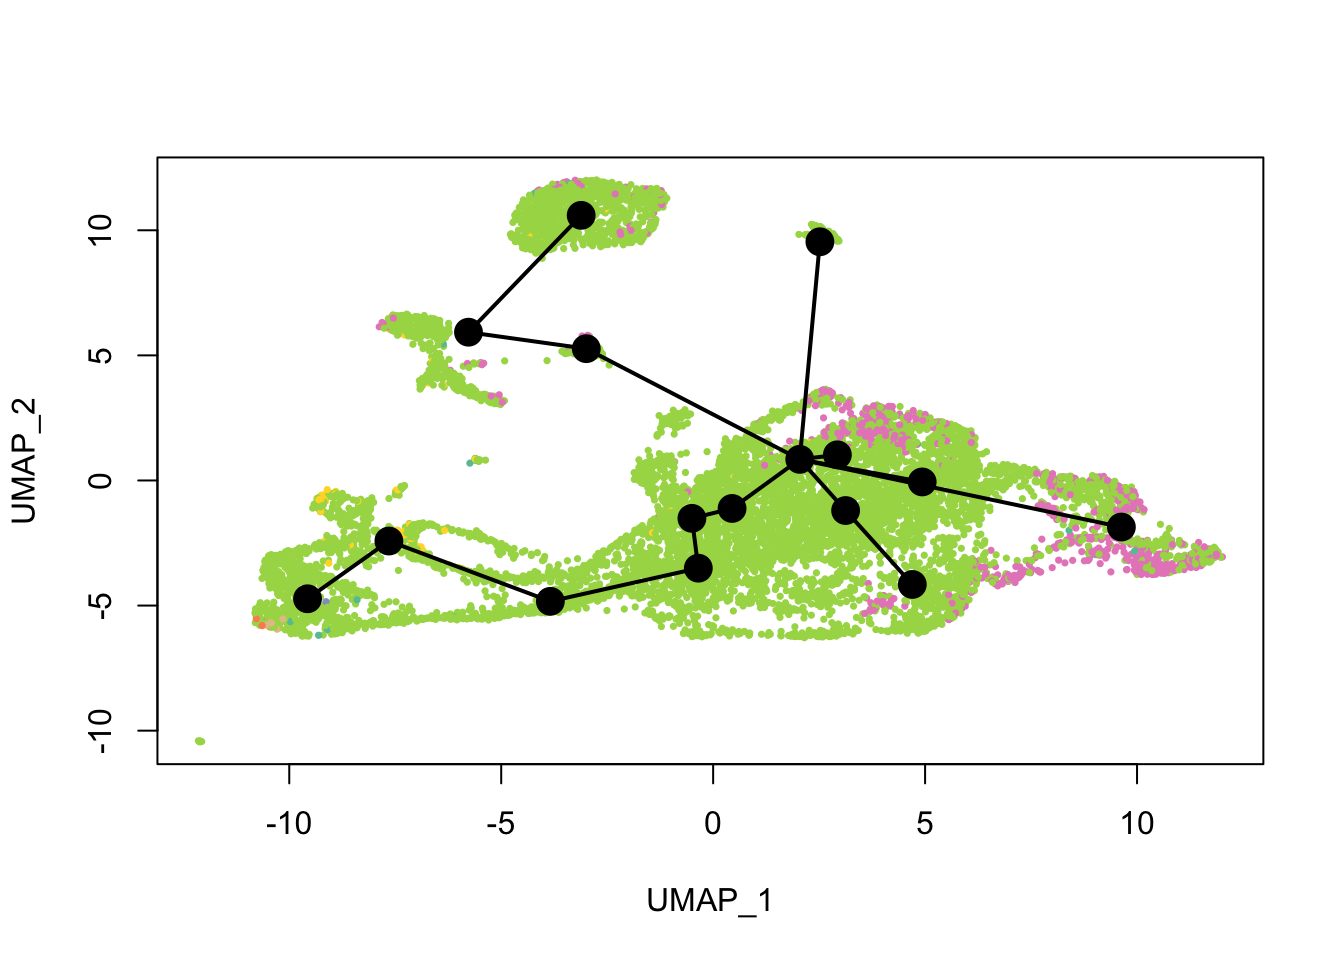
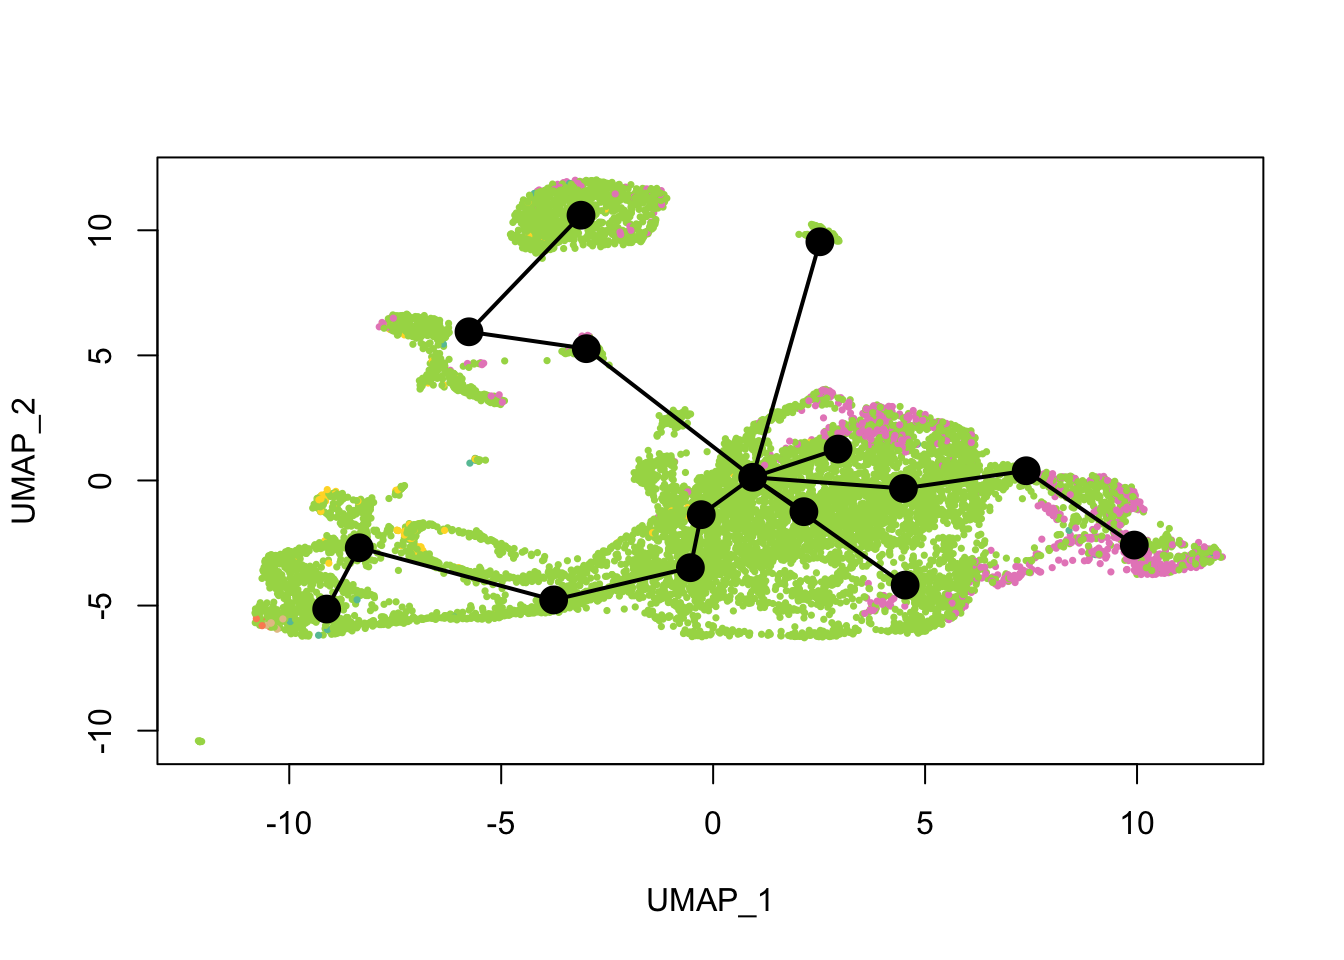
Build site.

Changed region(s): [[0.3438, 0.25, 0.875, 0.625], [0.2188, 0.5312, 0.3438, 0.6562]]

diff --git a/docs/slingshot.html b/docs/slingshot.html
@@ -497,10 +497,10 @@ This reproducible <a href="http://rmarkdown.rstudio.com">R Markdown</a> analysis
 <div class="panel panel-default">
 <div class="panel-heading">
 <p class="panel-title">
-<a data-toggle="collapse" data-parent="#workflowr-checks" href="#strongRepositoryversionstrongahrefhttpsgithubcomBUStoolsBUSnotebooksRtree63e0c03aa7048083fe7d9a72c8f351b82f35243ftargetblank63e0c03a"> <span class="glyphicon glyphicon-ok text-success" aria-hidden="true"></span> <strong>Repository version:</strong> <a href="https://github.com/BUStools/BUS_notebooks_R/tree/63e0c03aa7048083fe7d9a72c8f351b82f35243f" target="_blank">63e0c03</a> </a>
+<a data-toggle="collapse" data-parent="#workflowr-checks" href="#strongRepositoryversionstrongahrefhttpsgithubcomBUStoolsBUSnotebooksRtree7c215a4bc97ef2b9a8aadab733032eab2769e735targetblank7c215a4a"> <span class="glyphicon glyphicon-ok text-success" aria-hidden="true"></span> <strong>Repository version:</strong> <a href="https://github.com/BUStools/BUS_notebooks_R/tree/7c215a4bc97ef2b9a8aadab733032eab2769e735" target="_blank">7c215a4</a> </a>
 </p>
 </div>
[2 lines of base64/hex data omitted]
 <div class="panel-body">
 <p>
 Great! You are using Git for version control. Tracking code development and connecting the code version to the results is critical for reproducibility. The version displayed above was the version of the Git repository at the time these results were generated. <br><br> Note that you need to be careful to ensure that all relevant files for the analysis have been committed to Git prior to generating the results (you can use <code>wflow_publish</code> or <code>wflow_git_commit</code>). workflowr only checks the R Markdown file, but you know if there are other scripts or data files that it depends on. Below is the status of the Git repository when the results were generated:
@@ -516,9 +516,6 @@ Ignored files:
 Untracked files:
     Untracked:  ensembl/
     Untracked:  output/neuron10k/
-
-Unstaged changes:
-    Modified:   analysis/index.Rmd
 
 </code></pre>
 <p>
@@ -557,6 +554,40 @@ Message
 </tr>
 </thead>
 <tbody>
+<tr>
+<td>
+Rmd
+</td>
+<td>
+<a href="https://github.com/BUStools/BUS_notebooks_R/blob/7c215a4bc97ef2b9a8aadab733032eab2769e735/analysis/slingshot.Rmd" target="_blank">7c215a4</a>
+</td>
+<td>
+Lambda Moses
+</td>
+<td>
+2019-07-25
+</td>
+<td>
+Just realized that the Leiden clustering is not reproducible. Installed Seurat
+</td>
+</tr>
+<tr>
+<td>
+html
+</td>
+<td>
+<a href="https://rawcdn.githack.com/BUStools/BUS_notebooks_R/906799efcbf68c48db57058869c4c360b772c270/docs/slingshot.html" target="_blank">906799e</a>
+</td>
+<td>
+Lambda Moses
+</td>
+<td>
+2019-07-24
+</td>
+<td>
+Build site.
+</td>
+</tr>
 <tr>
 <td>
 Rmd
@@ -628,7 +659,8 @@ library(tidyverse)
 library(tidymodels)
 library(Seurat)
 library(scales)
-library(viridis)</code></pre>
+library(viridis)
+library(reticulate)</code></pre>
 </div>
 <div id="loading-the-matrix" class="section level1">
 <h1>Loading the matrix</h1>
@@ -833,7 +865,11 @@ Lambda Moses
 </div>
 </div>
 <p>The y axis is standard deviation (not variance), or the singular values from singular value decomposition on the data performed for PCA.</p>
-<pre class="r"><code>PCAPlot(seu, group.by = &quot;cell_type&quot;, pt.size = 0.5, label = TRUE, repel = TRUE) +
+<pre class="r"><code># Need to use DimPlot due to weird workflowr problem with PCAPlot that calls seu[[wflow.build]]
+# and eats up memory. I suspect this is due to the sys.call() in 
+# Seurat:::SpecificDimPlot. 
+DimPlot(seu, reduction = &quot;pca&quot;,
+        group.by = &quot;cell_type&quot;, pt.size = 0.5, label = TRUE, repel = TRUE) +
   scale_color_brewer(type = &quot;qual&quot;, palette = &quot;Set2&quot;)</code></pre>
 <pre><code>#&gt; Warning: Using `as.character()` on a quosure is deprecated as of rlang 0.3.0.
 #&gt; Please use `as_label()` or `as_name()` instead.
@@ -877,7 +913,8 @@ Lambda Moses
 </div>
 </div>
 <pre class="r"><code>seu &lt;- RunTSNE(seu, dims = 1:50, verbose = FALSE)
-TSNEPlot(seu, group.by = &quot;cell_type&quot;, pt.size = 0.5, label = TRUE, repel = TRUE) +
+DimPlot(seu, reduction = &quot;tsne&quot;,
+        group.by = &quot;cell_type&quot;, pt.size = 0.5, label = TRUE, repel = TRUE) +
   scale_color_brewer(type = &quot;qual&quot;, palette = &quot;Set2&quot;)</code></pre>
 <p><img src="figure/slingshot.Rmd/tsne-1.png" width="672" style="display: block; margin: auto;" /></p>
 <p>
@@ -919,7 +956,8 @@ Lambda Moses
 </div>
 <p>UMAP can better preserve pairwise distance of cells than tSNE and can better separate cell populations than the first 2 PCs of PCA (<a href="https://doi.org/10.1038/nbt.4314">Becht et al. 2018</a>), so the TI will be done on UMAP rather than tSNE or PCA.</p>
 <pre class="r"><code>seu &lt;- RunUMAP(seu, dims = 1:50)
-UMAPPlot(seu, group.by = &quot;cell_type&quot;, pt.size = 0.5, label = TRUE, repel = TRUE) +
+DimPlot(seu, reduction = &quot;umap&quot;,
+        group.by = &quot;cell_type&quot;, pt.size = 0.5, label = TRUE, repel = TRUE) +
   scale_color_brewer(type = &quot;qual&quot;, palette = &quot;Set2&quot;)</code></pre>
 <p><img src="figure/slingshot.Rmd/umap-1.png" width="672" style="display: block; margin: auto;" /></p>
 <p>
@@ -961,8 +999,8 @@ Lambda Moses
 </div>
 <p>Cell type annotation with <code>SingleR</code> requires a reference with bulk RNA seq data for isolated known cell types. The reference used for cell type annotation here does not differentiate between different types of neural progenitor cells; clustering can further partition the neural progenitor cells. Furthermore, <code>slingshot</code> is based on cluster-wise minimum spanning tree, so finding a good clustering is important to good trajectory inference with <code>slingshot</code>. The clustering algorithm used here is <a href="https://www.nature.com/articles/s41598-019-41695-z">Leiden</a>, which is an improvement over the commonly used Louvain; Leiden communities are guaranteed to be well-connected, while Louvain can lead to poorly connected communities.</p>
 <pre class="r"><code>seu &lt;- FindNeighbors(seu, verbose = FALSE) %&gt;% 
-  FindClusters(algorithm = 4, resolution = 1) # Leiden clustering
-UMAPPlot(seu, pt.size = 0.5)</code></pre>
+  FindClusters(algorithm = 4, resolution = 1, random.seed = 256)
+DimPlot(seu, pt.size = 0.5, reduction = &quot;umap&quot;, group.by = &quot;seurat_clusters&quot;)</code></pre>
 <p><img src="figure/slingshot.Rmd/umap_clust-1.png" width="672" style="display: block; margin: auto;" /></p>
 <p>
 <button type="button" class="btn btn-default btn-xs btn-workflowr btn-workflowr-fig" data-toggle="collapse" data-target="#fig-umap_clust-1">
@@ -988,6 +1026,17 @@ Date
 <tbody>
 <tr>
 <td>
+<a href="https://github.com/BUStools/BUS_notebooks_R/blob/906799efcbf68c48db57058869c4c360b772c270/docs/figure/slingshot.Rmd/umap_clust-1.png" target="_blank">906799e</a>
+</td>
+<td>
+Lambda Moses
+</td>
+<td>
+2019-07-24
+</td>
+</tr>
+<tr>
+<td>
 <a href="https://github.com/BUStools/BUS_notebooks_R/blob/df34d05137c8df23b272650d0e14a8becfe6ad76/docs/figure/slingshot.Rmd/umap_clust-1.png" target="_blank">df34d05</a>
 </td>
 <td>
@@ -1001,15 +1050,16 @@ Lambda Moses
 </table>
 </div>
 </div>
+<p>Note that in the current CRAN release of Seurat, Leiden clustering does not take the random seed and gives a somewhat different result every time it’s run. To make the random seed take effect, install the <a href="https://satijalab.org/seurat/install.html#development">development version of Seurat</a>.</p>
 </div>
 </div>
 <div id="slingshot" class="section level1">
 <h1>Slingshot</h1>
 <div id="trajectory-inference" class="section level2">
 <h2>Trajectory inference</h2>
-<p>While the <code>slingshot</code> vignette uses <code>SingleCellExperiment</code>, <code>slingshot</code> can also take a matrix of cell embeddings in reduced dimension as input. We can optionally specify the cluster to start or end the trajectory based on biological knowledge. Here, since quiescent neural stem cells are in cluster 10, the starting cluster would be 10 near the bottom left of the previous plot.</p>
+<p>While the <code>slingshot</code> vignette uses <code>SingleCellExperiment</code>, <code>slingshot</code> can also take a matrix of cell embeddings in reduced dimension as input. We can optionally specify the cluster to start or end the trajectory based on biological knowledge. Here, since quiescent neural stem cells are in cluster 12, the starting cluster would be 10 near the bottom left of the previous plot.</p>
 <pre class="r"><code>sds &lt;- slingshot(Embeddings(seu, &quot;umap&quot;), clusterLabels = seu$seurat_clusters, 
-                 start.clus = &quot;10&quot;)</code></pre>
+                 start.clus = &quot;12&quot;)</code></pre>
 <p>Unfortunately, <code>slingshot</code> does not natively support <code>ggplot2</code>. So this is a function that assigns colors to each cell in base R graphics.</p>
 <pre class="r"><code>#&#39; Assign a color to each cell based on some value
 #&#39; 
@@ -1030,7 +1080,7 @@ cell_pal &lt;- function(cell_vars, pal_fun,...) {
 }</code></pre>
 <p>We need color palettes for both cell types and Leiden clusters. These would be the same colors seen in the Seurat plots.</p>
 <pre class="r"><code>cell_colors &lt;- cell_pal(seu$cell_type, brewer_pal(&quot;qual&quot;, &quot;Set2&quot;))
-cell_colors_clust &lt;- cell_pal(seu$SCT_snn_res.1, hue_pal())</code></pre>
+cell_colors_clust &lt;- cell_pal(seu$seurat_clusters, hue_pal())</code></pre>
 <p>What does the inferred trajectory look like compared to cell types?</p>
 <pre class="r"><code>plot(reducedDim(sds), col = cell_colors, pch = 16, cex = 0.5)
 lines(sds, lwd = 2, type = &#39;lineages&#39;, col = &#39;black&#39;)</code></pre>
@@ -1101,6 +1151,17 @@ Date
 <tbody>
 <tr>
 <td>
+<a href="https://github.com/BUStools/BUS_notebooks_R/blob/906799efcbf68c48db57058869c4c360b772c270/docs/figure/slingshot.Rmd/lin2-1.png" target="_blank">906799e</a>
+</td>
+<td>
+Lambda Moses
+</td>
+<td>
+2019-07-24
+</td>
+</tr>
+<tr>
+<td>
 <a href="https://github.com/BUStools/BUS_notebooks_R/blob/df34d05137c8df23b272650d0e14a8becfe6ad76/docs/figure/slingshot.Rmd/lin2-1.png" target="_blank">df34d05</a>
 </td>
 <td>
@@ -1114,7 +1175,7 @@ Lambda Moses
 </table>
 </div>
 </div>
-<p>Here <code>slingshot</code> thinks that cluster 3 is a point where multiple neural lineages diverge.</p>
+<p>Here <code>slingshot</code> thinks that cluster 9 is a point where multiple neural lineages diverge. Different clustering (e.g. different random initiations of Louvain or Leiden algorithms) can lead to somewhat different trajectories, the the main structure is not affected. With different runs of Leiden clustering (without fixed seed), the branching point is placed in the region around its current location, near the small UMAP offshoot there.</p>
 <p>Principal curves are smoothed representations of each lineage; pseudotime values are computed by projecting the cells onto the principal curves. What do the principal curves look like?</p>
 <pre class="r"><code>plot(reducedDim(sds), col = cell_colors, pch = 16, cex = 0.5)
 lines(sds, lwd = 2, col = &#39;black&#39;)</code></pre>
@@ -1168,7 +1229,7 @@ for (i in nms) {
   plot(reducedDim(sds), col = colors, pch = 16, cex = 0.5, main = i)
   lines(sds, lwd = 2, col = &#39;black&#39;, type = &#39;lineages&#39;)
 }</code></pre>
-<p><img src="figure/slingshot.Rmd/pt-1.png" width="576" style="display: block; margin: auto;" /></p>
+<p><img src="figure/slingshot.Rmd/pt-1.png" width="864" style="display: block; margin: auto;" /></p>
 <p>
 <button type="button" class="btn btn-default btn-xs btn-workflowr btn-workflowr-fig" data-toggle="collapse" data-target="#fig-pt-1">
 Past versions of pt-1.png
@@ -1210,7 +1271,7 @@ Lambda Moses
 </div>
 <div id="differential-expression" class="section level2">
 <h2>Differential expression</h2>
-<p>Let’s look at which genes are differentially expressed along one of the 6 lineages. In <code>dynverse</code>, feature (gene) importance is calculated by using gene expression to predict pseudotime value with random forest and finding genes that contribute the most to the accuracy of the response. Since it’s really not straightforward to convert existing pseudotime results to <code>dynverse</code> format, it would be easier to build a random forest model. Variable importance will be calculated for the top 100 highly variable genes here, with <a href="https://github.com/tidymodels"><code>tidymodels</code></a>.</p>
+<p>Let’s look at which genes are differentially expressed along one of the 6 lineages (linage 2). In <code>dynverse</code>, feature (gene) importance is calculated by using gene expression to predict pseudotime value with random forest and finding genes that contribute the most to the accuracy of the response. Since it’s really not straightforward to convert existing pseudotime results to <code>dynverse</code> format, it would be easier to build a random forest model. Variable importance will be calculated for the top 100 highly variable genes here, with <a href="https://github.com/tidymodels"><code>tidymodels</code></a>.</p>
 <pre class="r"><code># Get top highly variable genes
 top_hvg &lt;- HVFInfo(seu) %&gt;% 
   mutate(., bc = rownames(.)) %&gt;% 
@@ -1219,44 +1280,45 @@ top_hvg &lt;- HVFInfo(seu) %&gt;%
   pull(bc)
 # Prepare data for random forest
 dat_use &lt;- t(GetAssayData(seu, slot = &quot;scale.data&quot;)[top_hvg,])
-dat_use_df &lt;- cbind(slingPseudotime(sds)[,5], dat_use)
-colnames(dat_use_df)[1] &lt;- &quot;pseudotime5&quot;
+dat_use_df &lt;- cbind(slingPseudotime(sds)[,2], dat_use)
+colnames(dat_use_df)[1] &lt;- &quot;pseudotime&quot;
 dat_use_df &lt;- as.data.frame(dat_use_df[!is.na(dat_use_df[,1]),])</code></pre>
 <p>The subset of data is randomly split into training and validation; the model fitted on the training set will be evaluated on the validation set.</p>
 <pre class="r"><code>dat_split &lt;- initial_split(dat_use_df)
 dat_train &lt;- training(dat_split)
 dat_val &lt;- testing(dat_split)</code></pre>
 <p><code>tidymodels</code> is a unified interface to different machine learning models, a “tidier” version of <code>caret</code>. The code chunk below can easily be adjusted to use other random forest packages as the back end, so no need to learn new syntax for those packages.</p>
-<pre class="r"><code>model &lt;- rand_forest(mtry = 40, trees = 1000, min_n = 15) %&gt;%
+<pre class="r"><code>model &lt;- rand_forest(mtry = 50, trees = 1200, min_n = 15) %&gt;%
   set_engine(&quot;ranger&quot;, importance = &quot;impurity&quot;, num.threads = 3) %&gt;%
-  fit(pseudotime5 ~ ., data = dat_train)</code></pre>
+  fit(pseudotime ~ ., data = dat_train)</code></pre>
 <p>The model is evaluated on the validation set with 3 metrics: room mean squared error (RMSE), coefficient of determination using correlation (rsq, between 0 and 1), and mean absolute error (MAE).</p>
 <pre class="r"><code>val_results &lt;- dat_val %&gt;% 
   mutate(estimate = predict(model, .[,-1]) %&gt;% pull()) %&gt;% 
-  select(truth = pseudotime5, estimate)
+  select(truth = pseudotime, estimate)
 metrics(data = val_results, truth, estimate)</code></pre>
 <pre><code>#&gt; # A tibble: 3 x 3
 #&gt;   .metric .estimator .estimate
 #&gt;   &lt;chr&gt;   &lt;chr&gt;          &lt;dbl&gt;
-#&gt; 1 rmse    standard       1.59 
-#&gt; 2 rsq     standard       0.944
-#&gt; 3 mae     standard       0.908</code></pre>
+#&gt; 1 rmse    standard       1.68 
+#&gt; 2 rsq     standard       0.936
+#&gt; 3 mae     standard       0.939</code></pre>
 <p>RMSE and MAE should have the same unit as the data. As pseudotime values here usually have values much larger than 2, the error isn’t too bad. Correlation (rsq) between <code>slingshot</code>’s pseudotime and random forest’s prediction is very high, also showing good prediction from the top 100 highly variable genes.</p>
-<pre class="r"><code>summary(dat_use_df$pseudotime5)</code></pre>
+<pre class="r"><code>summary(dat_use_df$pseudotime)</code></pre>
 <pre><code>#&gt;    Min. 1st Qu.  Median    Mean 3rd Qu.    Max. 
-#&gt;   0.000   8.814  14.519  14.069  18.427  26.777</code></pre>
+#&gt;   0.000   9.019  14.695  14.364  19.245  26.651</code></pre>
 <p>Now it’s time to plot some genes deemed the most important to predicting pseudotime:</p>
 <pre class="r"><code>var_imp &lt;- sort(model$fit$variable.importance, decreasing = TRUE)
 top_genes &lt;- names(var_imp)[1:6]
 # Convert to gene symbol
 top_gene_name &lt;- gns$gene_name[match(top_genes, gns$gene)]</code></pre>
-<pre class="r"><code>par(mfrow = c(nr, nc))
+<pre class="r"><code>nr &lt;- 3
+par(mfrow = c(nr, nc))
 for (i in seq_along(top_genes)) {
   colors &lt;- pal[cut(dat_use[,top_genes[i]], breaks = 100)]
   plot(reducedDim(sds), col = colors, pch = 16, cex = 0.5, main = top_gene_name[i])
   lines(sds, lwd = 2, col = &#39;black&#39;, type = &#39;lineages&#39;)
 }</code></pre>
-<p><img src="figure/slingshot.Rmd/genes-1.png" width="576" style="display: block; margin: auto;" /></p>
+<p><img src="figure/slingshot.Rmd/genes-1.png" width="864" style="display: block; margin: auto;" /></p>
 <p>
 <button type="button" class="btn btn-default btn-xs btn-workflowr btn-workflowr-fig" data-toggle="collapse" data-target="#fig-genes-1">
 Past versions of genes-1.png
@@ -1318,15 +1380,15 @@ Lambda Moses
 #&gt; [1] stats     graphics  grDevices utils     datasets  methods   base     
 #&gt; 
 #&gt; other attached packages:
-#&gt;  [1] viridis_0.5.1     viridisLite_0.3.0 Seurat_3.0.2     
-#&gt;  [4] yardstick_0.0.3   rsample_0.0.5     recipes_0.1.6    
-#&gt;  [7] parsnip_0.0.2     infer_0.4.0.1     dials_0.0.2      
-#&gt; [10] scales_1.0.0      broom_0.5.2       tidymodels_0.0.2 
-#&gt; [13] forcats_0.4.0     stringr_1.4.0     dplyr_0.8.3      
-#&gt; [16] purrr_0.3.2       readr_1.3.1       tidyr_0.8.3      
-#&gt; [19] tibble_2.1.3      ggplot2_3.2.0     tidyverse_1.2.1  
-#&gt; [22] BUSpaRse_0.99.18  biomaRt_2.41.7    slingshot_1.3.1  
-#&gt; [25] princurve_2.1.4  
+#&gt;  [1] reticulate_1.13   viridis_0.5.1     viridisLite_0.3.0
+#&gt;  [4] Seurat_3.0.3.9016 yardstick_0.0.3   rsample_0.0.5    
+#&gt;  [7] recipes_0.1.6     parsnip_0.0.2     infer_0.4.0.1    
+#&gt; [10] dials_0.0.2       scales_1.0.0      broom_0.5.2      
+#&gt; [13] tidymodels_0.0.2  forcats_0.4.0     stringr_1.4.0    
+#&gt; [16] dplyr_0.8.3       purrr_0.3.2       readr_1.3.1      
+#&gt; [19] tidyr_0.8.3       tibble_2.1.3      ggplot2_3.2.0    
+#&gt; [22] tidyverse_1.2.1   BUSpaRse_0.99.18  biomaRt_2.41.7   
+#&gt; [25] slingshot_1.3.1   princurve_2.1.4  
 #&gt; 
 #&gt; loaded via a namespace (and not attached):
 #&gt;   [1] rappdirs_0.3.1              SnowballC_0.6.0            
@@ -1405,10 +1467,10 @@ Lambda Moses
 #&gt; [147] shiny_1.3.2                 lava_1.6.5                 
 #&gt; [149] Rcpp_1.0.1                  GenomicRanges_1.37.14      
 #&gt; [151] SDMTools_1.1-221.1          later_0.8.0                
-#&gt; [153] httr_1.4.0                  AnnotationDbi_1.47.0       
-#&gt; [155] rsconnect_0.8.15            npsurv_0.4-0               
-#&gt; [157] Rdpack_0.11-0               colorspace_1.4-1           
-#&gt; [159] ranger_0.11.2               reticulate_1.12            
+#&gt; [153] RcppAnnoy_0.0.12            httr_1.4.0                 
+#&gt; [155] AnnotationDbi_1.47.0        rsconnect_0.8.15           
+#&gt; [157] npsurv_0.4-0                Rdpack_0.11-0              
+#&gt; [159] colorspace_1.4-1            ranger_0.11.2              
 #&gt; [161] rvest_0.3.4                 XML_3.98-1.20              
 #&gt; [163] fs_1.3.1                    IRanges_2.19.10            
 #&gt; [165] splines_3.6.1               shinythemes_1.1.2          
